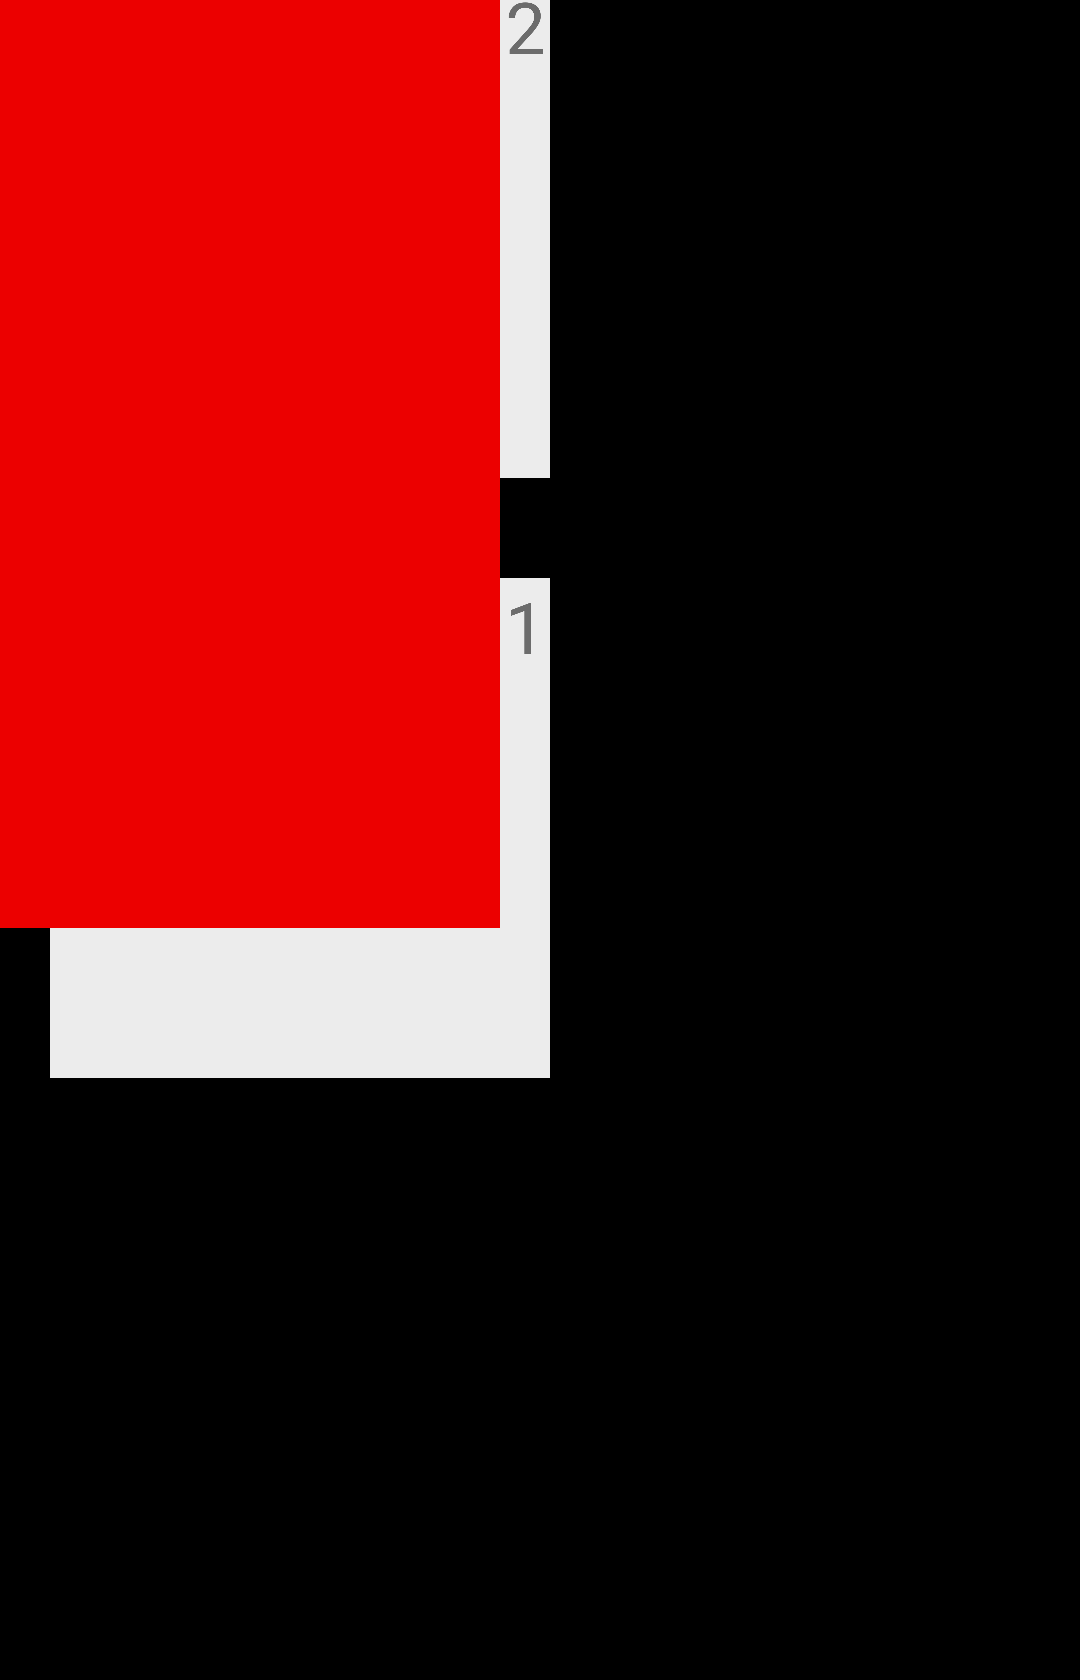
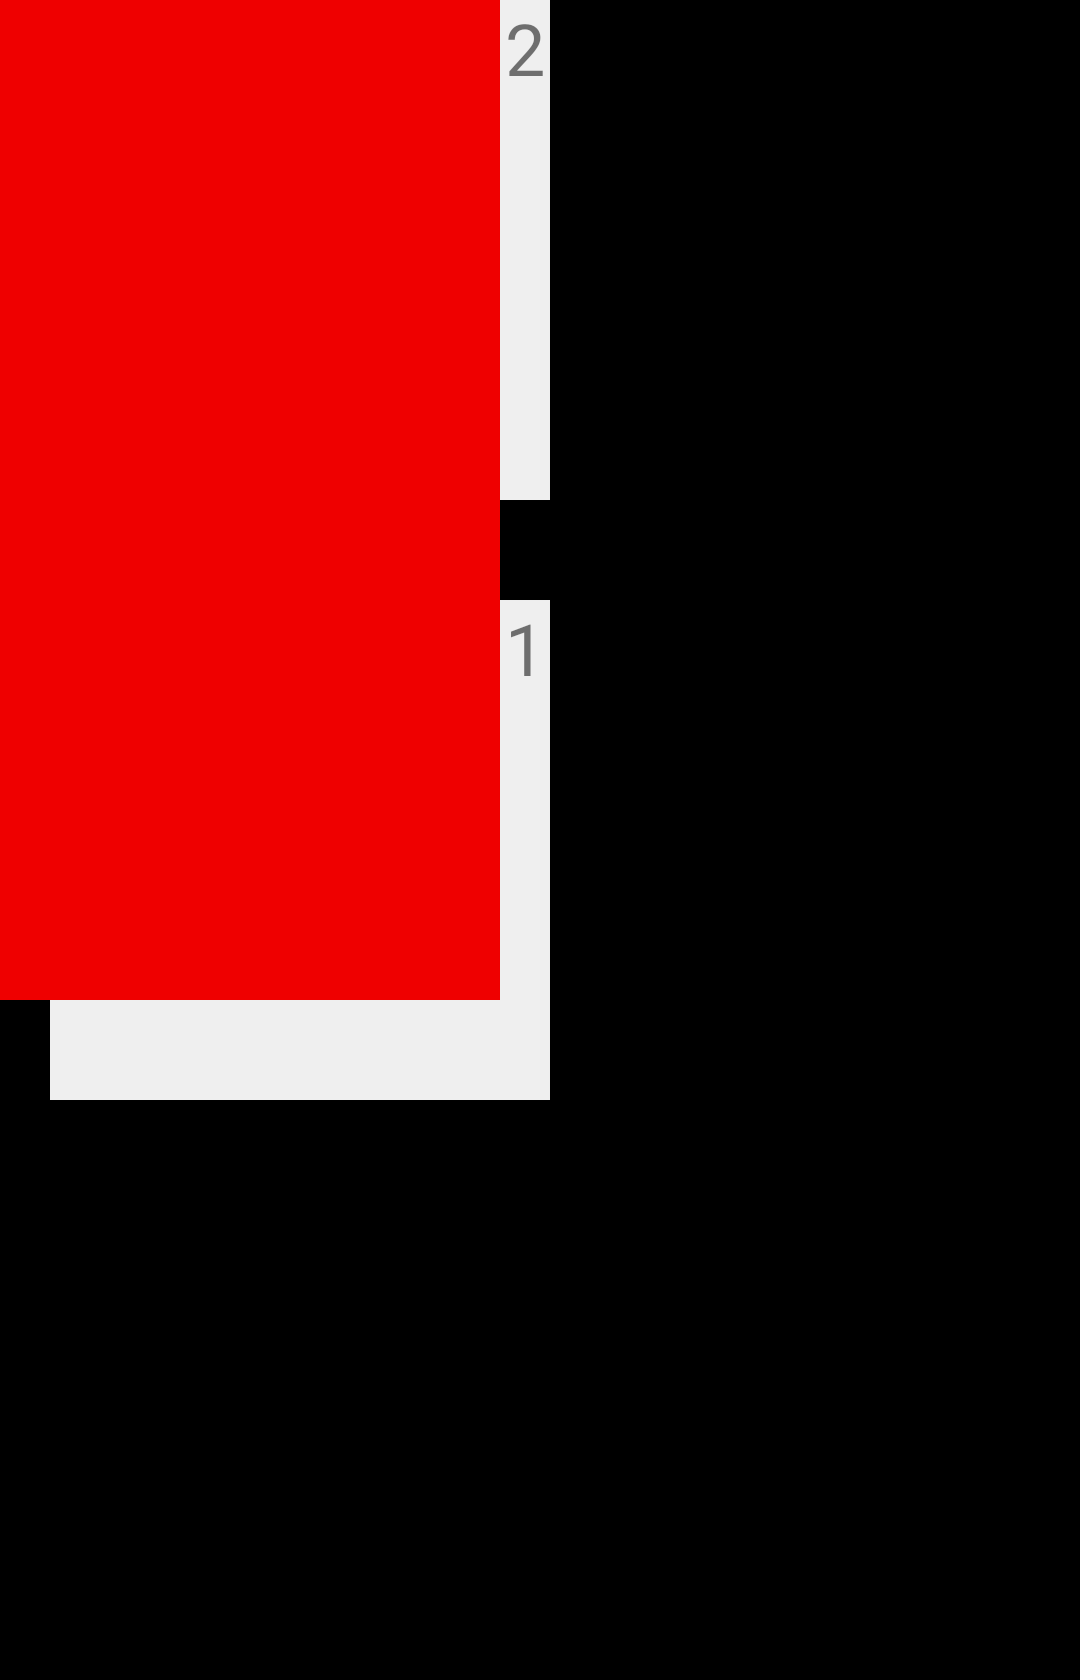
Fix and clean up scenario app for Android (#22540)

diff --git a/testing/scenario_app/lib/src/platform_view.dart b/testing/scenario_app/lib/src/platform_view.dart
@@ -46,8 +46,6 @@ class PlatformViewScenario extends Scenario with _BasePlatformViewScenarioMixin 
   void onBeginFrame(Duration duration) {
     final SceneBuilder builder = SceneBuilder();
 
-    builder.pushOffset(0, 0);
-
     finishBuilderByAddingPlatformViewAndPicture(builder, id);
   }
 }
@@ -69,8 +67,6 @@ class PlatformViewNoOverlayIntersectionScenario extends Scenario with _BasePlatf
   @override
   void onBeginFrame(Duration duration) {
     final SceneBuilder builder = SceneBuilder();
-
-    builder.pushOffset(0, 0);
 
     finishBuilderByAddingPlatformViewAndPicture(
       builder,
@@ -98,8 +94,6 @@ class PlatformViewPartialIntersectionScenario extends Scenario with _BasePlatfor
   void onBeginFrame(Duration duration) {
     final SceneBuilder builder = SceneBuilder();
 
-    builder.pushOffset(0, 0);
-
     finishBuilderByAddingPlatformViewAndPicture(
       builder,
       id,
@@ -125,8 +119,6 @@ class PlatformViewTwoIntersectingOverlaysScenario extends Scenario with _BasePla
   @override
   void onBeginFrame(Duration duration) {
     final SceneBuilder builder = SceneBuilder();
-
-    builder.pushOffset(0, 0);
 
     _addPlatformViewToScene(builder, id, 500, 500);
     final PictureRecorder recorder = PictureRecorder();
@@ -166,8 +158,6 @@ class PlatformViewOneOverlayTwoIntersectingOverlaysScenario extends Scenario wit
   @override
   void onBeginFrame(Duration duration) {
     final SceneBuilder builder = SceneBuilder();
-
-    builder.pushOffset(0, 0);
 
     _addPlatformViewToScene(builder, id, 500, 500);
     final PictureRecorder recorder = PictureRecorder();
@@ -217,8 +207,6 @@ class MultiPlatformViewWithoutOverlaysScenario extends Scenario with _BasePlatfo
   void onBeginFrame(Duration duration) {
     final SceneBuilder builder = SceneBuilder();
 
-    builder.pushOffset(0, 0);
-
     builder.pushOffset(0, 600);
     _addPlatformViewToScene(builder, firstId, 500, 500);
     builder.pop();
@@ -258,8 +246,6 @@ class PlatformViewMaxOverlaysScenario extends Scenario with _BasePlatformViewSce
   @override
   void onBeginFrame(Duration duration) {
     final SceneBuilder builder = SceneBuilder();
-
-    builder.pushOffset(0, 0);
 
     _addPlatformViewToScene(builder, id, 500, 500);
     final PictureRecorder recorder = PictureRecorder();
@@ -314,8 +300,6 @@ class MultiPlatformViewScenario extends Scenario with _BasePlatformViewScenarioM
   void onBeginFrame(Duration duration) {
     final SceneBuilder builder = SceneBuilder();
 
-    builder.pushOffset(0, 0);
-
     builder.pushOffset(0, 600);
     _addPlatformViewToScene(builder, firstId, 500, 500);
     builder.pop();
@@ -357,13 +341,13 @@ class MultiPlatformViewBackgroundForegroundScenario extends Scenario with _BaseP
   void _firstFrame() {
     final SceneBuilder builder = SceneBuilder();
 
-    builder.pushOffset(0, 0);
-
-    builder.pushOffset(0, 600);
+    builder.pushOffset(50, 600);
     _addPlatformViewToScene(builder, firstId, 500, 500);
     builder.pop();
 
+    builder.pushOffset(50, 0);
     _addPlatformViewToScene(builder, secondId, 500, 500);
+    builder.pop();
 
     final PictureRecorder recorder = PictureRecorder();
     final Canvas canvas = Canvas(recorder);
@@ -374,7 +358,6 @@ class MultiPlatformViewBackgroundForegroundScenario extends Scenario with _BaseP
     final Picture picture = recorder.endRecording();
     builder.addPicture(const Offset(0, 0), picture);
 
-    builder.pop();
     final Scene scene = builder.build();
     window.render(scene);
     scene.dispose();
@@ -383,13 +366,12 @@ class MultiPlatformViewBackgroundForegroundScenario extends Scenario with _BaseP
   void _secondFrame() {
     final SceneBuilder builder = SceneBuilder();
 
-    builder.pushOffset(0, 0);
-
     builder.pushOffset(0, 600);
     _addPlatformViewToScene(builder, firstId, 500, 500);
     builder.pop();
 
     _addPlatformViewToScene(builder, secondId, 500, 500);
+
     final Scene scene = builder.build();
     window.render(scene);
     scene.dispose();
@@ -430,9 +412,10 @@ class PlatformViewClipRectScenario extends Scenario with _BasePlatformViewScenar
 
   @override
   void onBeginFrame(Duration duration) {
-    final SceneBuilder builder = SceneBuilder();
-    builder.pushOffset(0, 0);
-    builder.pushClipRect(const Rect.fromLTRB(100, 100, 400, 400));
+    final SceneBuilder builder =
+      SceneBuilder()
+      ..pushClipRect(const Rect.fromLTRB(100, 100, 400, 400));
+
     finishBuilderByAddingPlatformViewAndPicture(builder, id);
   }
 }
@@ -446,8 +429,6 @@ class PlatformViewClipRRectScenario extends PlatformViewScenario {
   @override
   void onBeginFrame(Duration duration) {
     final SceneBuilder builder = SceneBuilder();
-
-    builder.pushOffset(0, 0);
     builder.pushClipRRect(
       RRect.fromLTRBAndCorners(
         100,
@@ -471,18 +452,14 @@ class PlatformViewClipPathScenario extends PlatformViewScenario {
 
   @override
   void onBeginFrame(Duration duration) {
-    final SceneBuilder builder = SceneBuilder();
-
-    builder.pushOffset(0, 0);
-
     final Path path = Path()
       ..moveTo(100, 100)
       ..quadraticBezierTo(50, 250, 100, 400)
       ..lineTo(350, 400)
       ..cubicTo(400, 300, 300, 200, 350, 100)
       ..close();
-    builder.pushClipPath(path);
 
+    final SceneBuilder builder = SceneBuilder()..pushClipPath(path);
     finishBuilderByAddingPlatformViewAndPicture(builder, id);
   }
 }
@@ -495,15 +472,12 @@ class PlatformViewTransformScenario extends PlatformViewScenario {
 
   @override
   void onBeginFrame(Duration duration) {
-    final SceneBuilder builder = SceneBuilder();
-
-    builder.pushOffset(0, 0);
     final Matrix4 matrix4 = Matrix4.identity()
       ..rotateZ(1)
       ..scale(0.5, 0.5, 1.0)
       ..translate(1000.0, 100.0, 0.0);
 
-    builder.pushTransform(matrix4.storage);
+    final SceneBuilder builder = SceneBuilder()..pushTransform(matrix4.storage);
 
     finishBuilderByAddingPlatformViewAndPicture(builder, id);
   }
@@ -517,11 +491,7 @@ class PlatformViewOpacityScenario extends PlatformViewScenario {
 
   @override
   void onBeginFrame(Duration duration) {
-    final SceneBuilder builder = SceneBuilder();
-
-    builder.pushOffset(0, 0);
-    builder.pushOpacity(150);
-
+    final SceneBuilder builder = SceneBuilder()..pushOpacity(150);
     finishBuilderByAddingPlatformViewAndPicture(builder, id);
   }
 }
@@ -600,15 +570,11 @@ class PlatformViewForTouchIOSScenario extends Scenario
 
   void _firstFrame() {
     final SceneBuilder builder = SceneBuilder();
-
-    builder.pushOffset(0, 0);
     finishBuilderByAddingPlatformViewAndPicture(builder, _viewId);
   }
 
   void _secondFrame() {
-    final SceneBuilder builder = SceneBuilder();
-
-    builder.pushOffset(5, 5);
+    final SceneBuilder builder = SceneBuilder()..pushOffset(5, 5);
     finishBuilderByAddingPlatformViewAndPicture(builder, _viewId);
   }
 }

diff --git a/testing/scenario_app/android/app/src/androidTest/java/dev/flutter/scenariosui/ScreenshotUtil.java b/testing/scenario_app/android/app/src/androidTest/java/dev/flutter/scenariosui/ScreenshotUtil.java
@@ -4,8 +4,6 @@
 
 package dev.flutter.scenariosui;
 
-import android.app.Activity;
-import android.content.Context;
 import android.graphics.Bitmap;
 import android.os.Bundle;
 import android.os.Handler;
@@ -129,28 +127,6 @@ public class ScreenshotUtil {
     album = null;
   }
 
-  private static int getStatusBarHeight() {
-    final Context context = InstrumentationRegistry.getTargetContext();
-    // Resource name defined in
-    // https://android.googlesource.com/platform/frameworks/base/+/master/core/res/res/values/dimens.xml#34
-    final int resourceId =
-        context.getResources().getIdentifier("status_bar_height", "dimen", "android");
-    int statusBarHeight = 0;
-    if (resourceId > 0) {
-      statusBarHeight = context.getResources().getDimensionPixelSize(resourceId);
-    }
-    return statusBarHeight;
-  }
-
-  private static int getActionBarHeight(Activity activity) {
-    int actionBarHeight = 0;
-    final android.content.res.TypedArray styledAttributes =
-        activity.getTheme().obtainStyledAttributes(new int[] {android.R.attr.actionBarSize});
-    actionBarHeight = (int) styledAttributes.getDimension(0, 0);
-    styledAttributes.recycle();
-    return actionBarHeight;
-  }
-
   /**
    * Captures a screenshot of {@code TestableFlutterActivity}.
    *
@@ -182,13 +158,7 @@ public class ScreenshotUtil {
             Bitmap bitmap =
                 InstrumentationRegistry.getInstrumentation().getUiAutomation().takeScreenshot();
             // Remove the status and action bars from the screenshot capture.
-            bitmap =
-                Bitmap.createBitmap(
-                    bitmap,
-                    0,
-                    getStatusBarHeight(),
-                    bitmap.getWidth(),
-                    bitmap.getHeight() - getStatusBarHeight() - getActionBarHeight(activity));
+            bitmap = Bitmap.createBitmap(bitmap, 0, 0, bitmap.getWidth(), bitmap.getHeight());
 
             final String screenshotName = String.format("%s__%s", testClass, testName);
             // Write bitmap to the album.

diff --git a/testing/scenario_app/ios/Scenarios/ScenariosUITests/UnobstructedPlatformViewTests.m b/testing/scenario_app/ios/Scenarios/ScenariosUITests/UnobstructedPlatformViewTests.m
@@ -195,30 +195,30 @@
 
   XCUIElement* platform_view1 = app.textViews[@"platform_view[0]"];
   XCTAssertTrue([platform_view1 waitForExistenceWithTimeout:1.0]);
-  XCTAssertEqual(platform_view1.frame.origin.x, 25);
+  XCTAssertEqual(platform_view1.frame.origin.x, 50);
   XCTAssertEqual(platform_view1.frame.origin.y, 325);
   XCTAssertEqual(platform_view1.frame.size.width, 250);
   XCTAssertEqual(platform_view1.frame.size.height, 250);
 
   XCUIElement* platform_view2 = app.textViews[@"platform_view[1]"];
   XCTAssertTrue(platform_view2.exists);
-  XCTAssertEqual(platform_view2.frame.origin.x, 25);
+  XCTAssertEqual(platform_view2.frame.origin.x, 50);
   XCTAssertEqual(platform_view2.frame.origin.y, 25);
   XCTAssertEqual(platform_view2.frame.size.width, 250);
   XCTAssertEqual(platform_view2.frame.size.height, 250);
 
   XCUIElement* overlay1 = app.otherElements[@"platform_view[0].overlay[0]"];
   XCTAssertTrue(overlay1.exists);
-  XCTAssertEqual(overlay1.frame.origin.x, 25);
+  XCTAssertEqual(overlay1.frame.origin.x, 50);
   XCTAssertEqual(overlay1.frame.origin.y, 325);
-  XCTAssertEqual(overlay1.frame.size.width, 225);
+  XCTAssertEqual(overlay1.frame.size.width, 200);
   XCTAssertEqual(overlay1.frame.size.height, 175);
 
   XCUIElement* overlay2 = app.otherElements[@"platform_view[1].overlay[0]"];
   XCTAssertTrue(overlay2.exists);
-  XCTAssertEqual(overlay2.frame.origin.x, 25);
+  XCTAssertEqual(overlay2.frame.origin.x, 50);
   XCTAssertEqual(overlay2.frame.origin.y, 25);
-  XCTAssertEqual(overlay2.frame.size.width, 225);
+  XCTAssertEqual(overlay2.frame.size.width, 200);
   XCTAssertEqual(overlay2.frame.size.height, 250);
 }
 

diff --git a/testing/scenario_app/README.md b/testing/scenario_app/README.md
@@ -46,7 +46,7 @@ The test is run on a x86 emulator. To run the test locally, you must create an e
 
 ```
 hw.lcd.density = 480
-hw.lcd.height = 1920
+hw.lcd.height = 1680
 hw.lcd.width = 1080
 lcd.depth = 16
 ```
